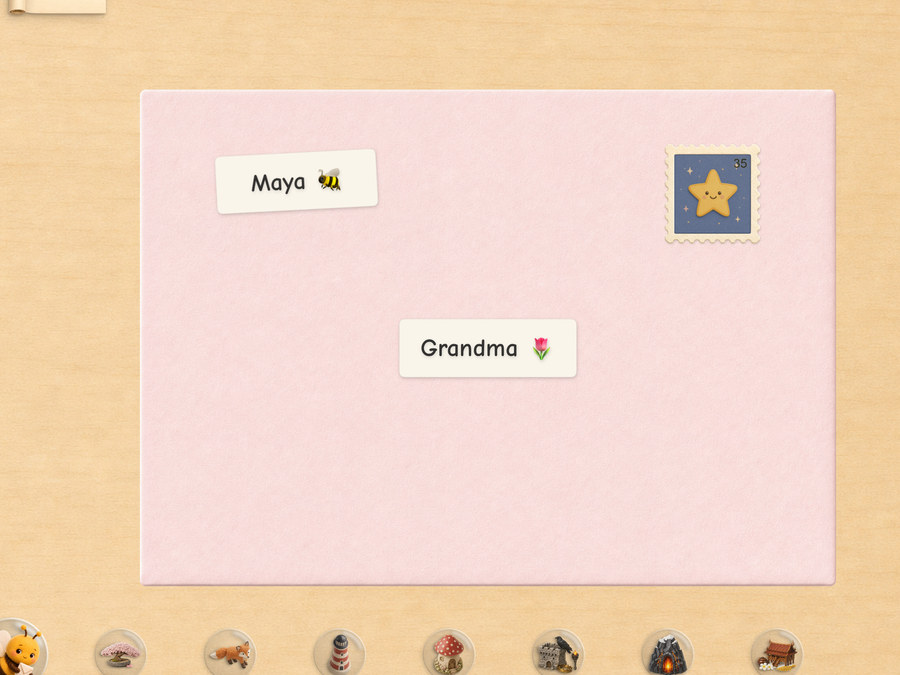
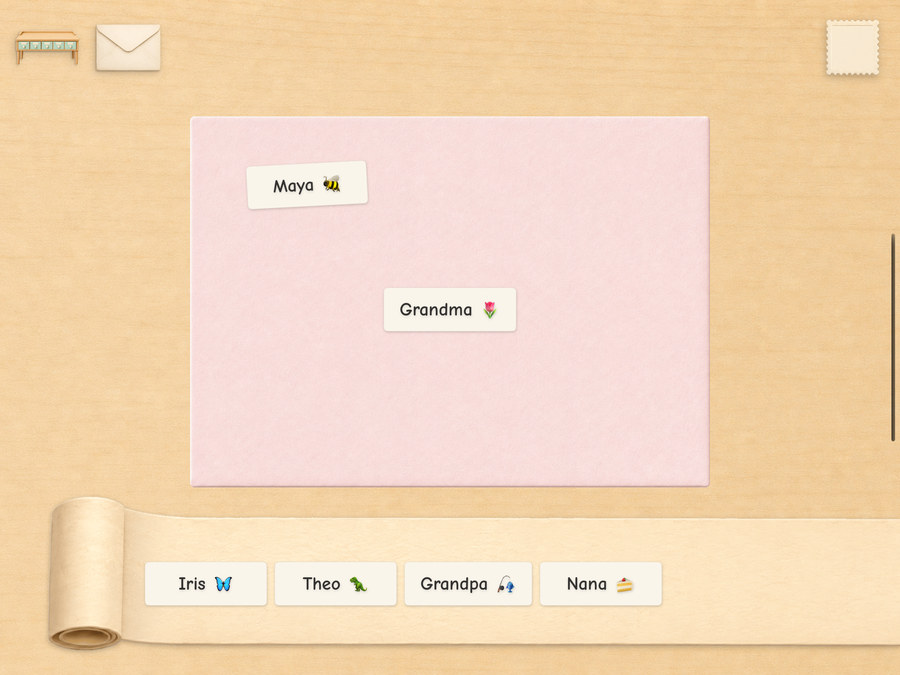
The first panel shows the whole desk, not a detail
"WHOLE screens, not crops" is the step row's own rule and the Grandma
section's first panel broke it - a tight crop of the envelope read as
zoomed-in framing (Patrick). It is now the full addressing screen, a
different moment from the stamp step above: Grandma's sticker is on the
envelope and the roll below has lost her.

diff --git a/index.html b/index.html
@@ -511,7 +511,7 @@
       </div>
       <div class="steps">
         <figure>
-          <img src="assets/beyond-write.jpg" alt="A blush envelope on Maya's desk - her From sticker, Grandma's address sticker and a star stamp" width="900" height="675" loading="lazy" />
+          <img src="assets/beyond-write.jpg" alt="A blush envelope on Maya's desk wearing her From sticker and Grandma's address sticker - the label roll below now missing Grandma" width="900" height="675" loading="lazy" />
           <figcaption>Maya writes to Grandma.</figcaption>
           <p class="sub">Paper, ink, a stamp. Grandma&rsquo;s sticker comes
              off the roll, same as everyone else&rsquo;s.</p>
